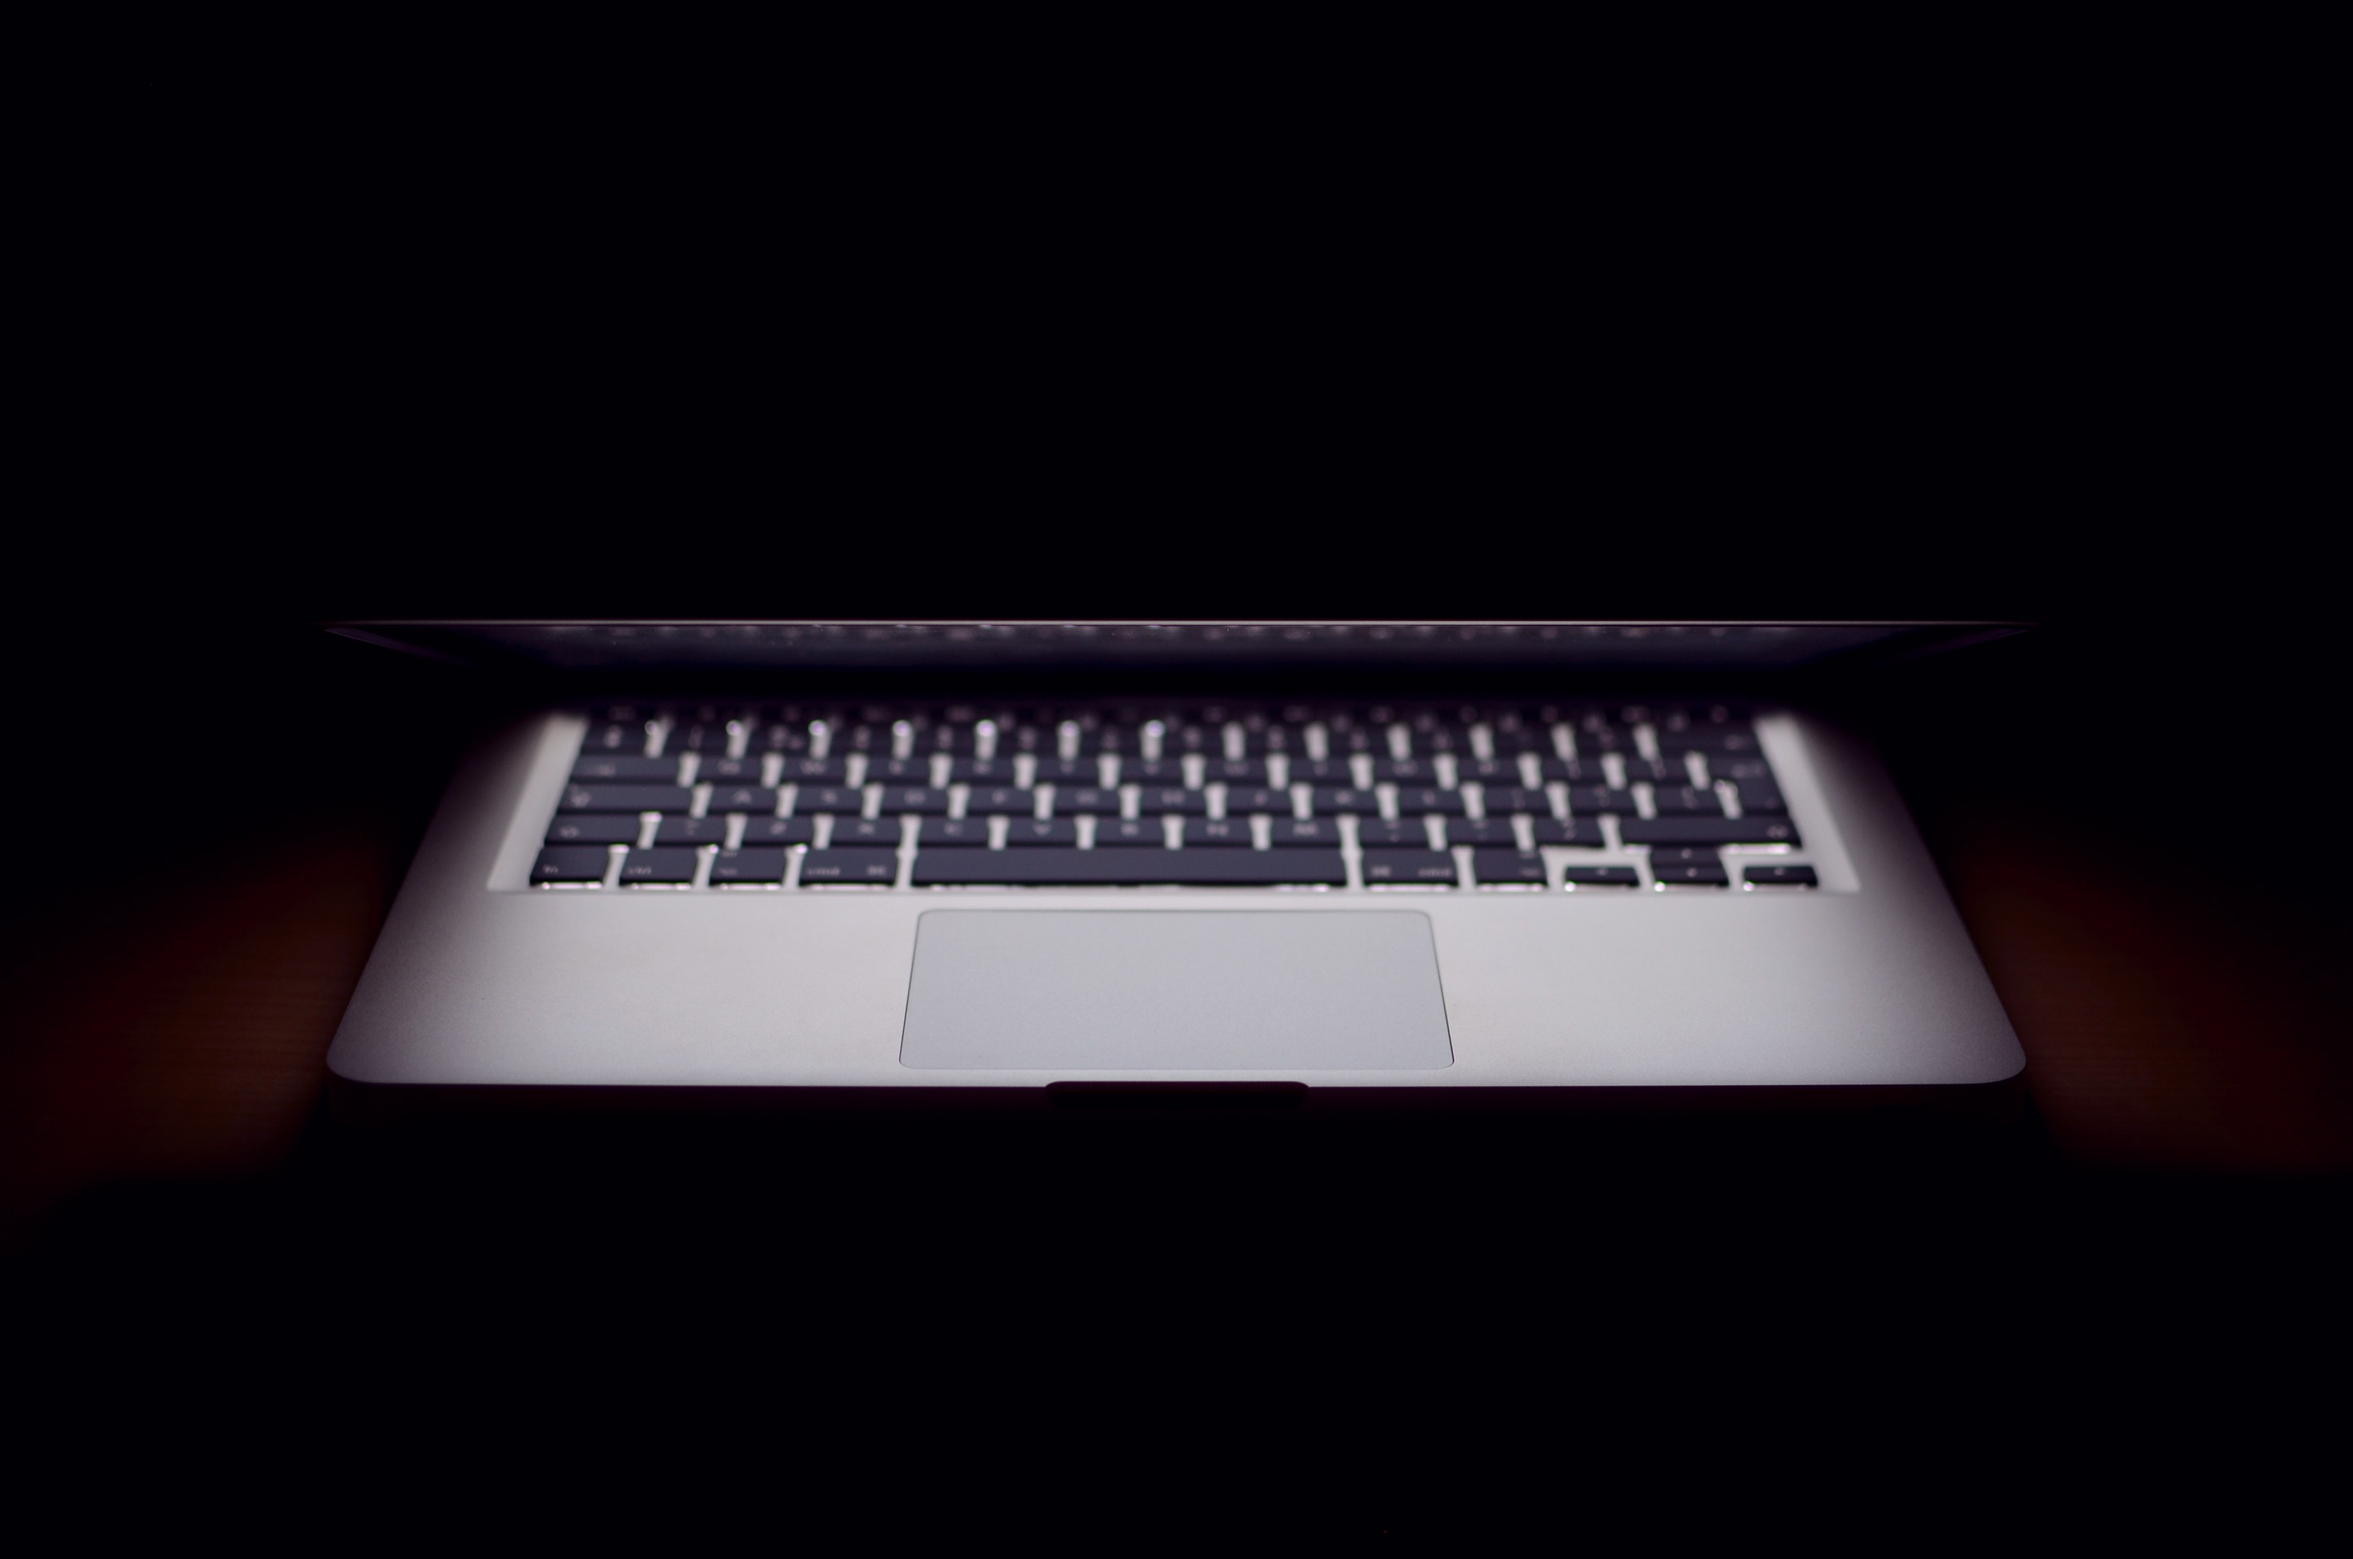
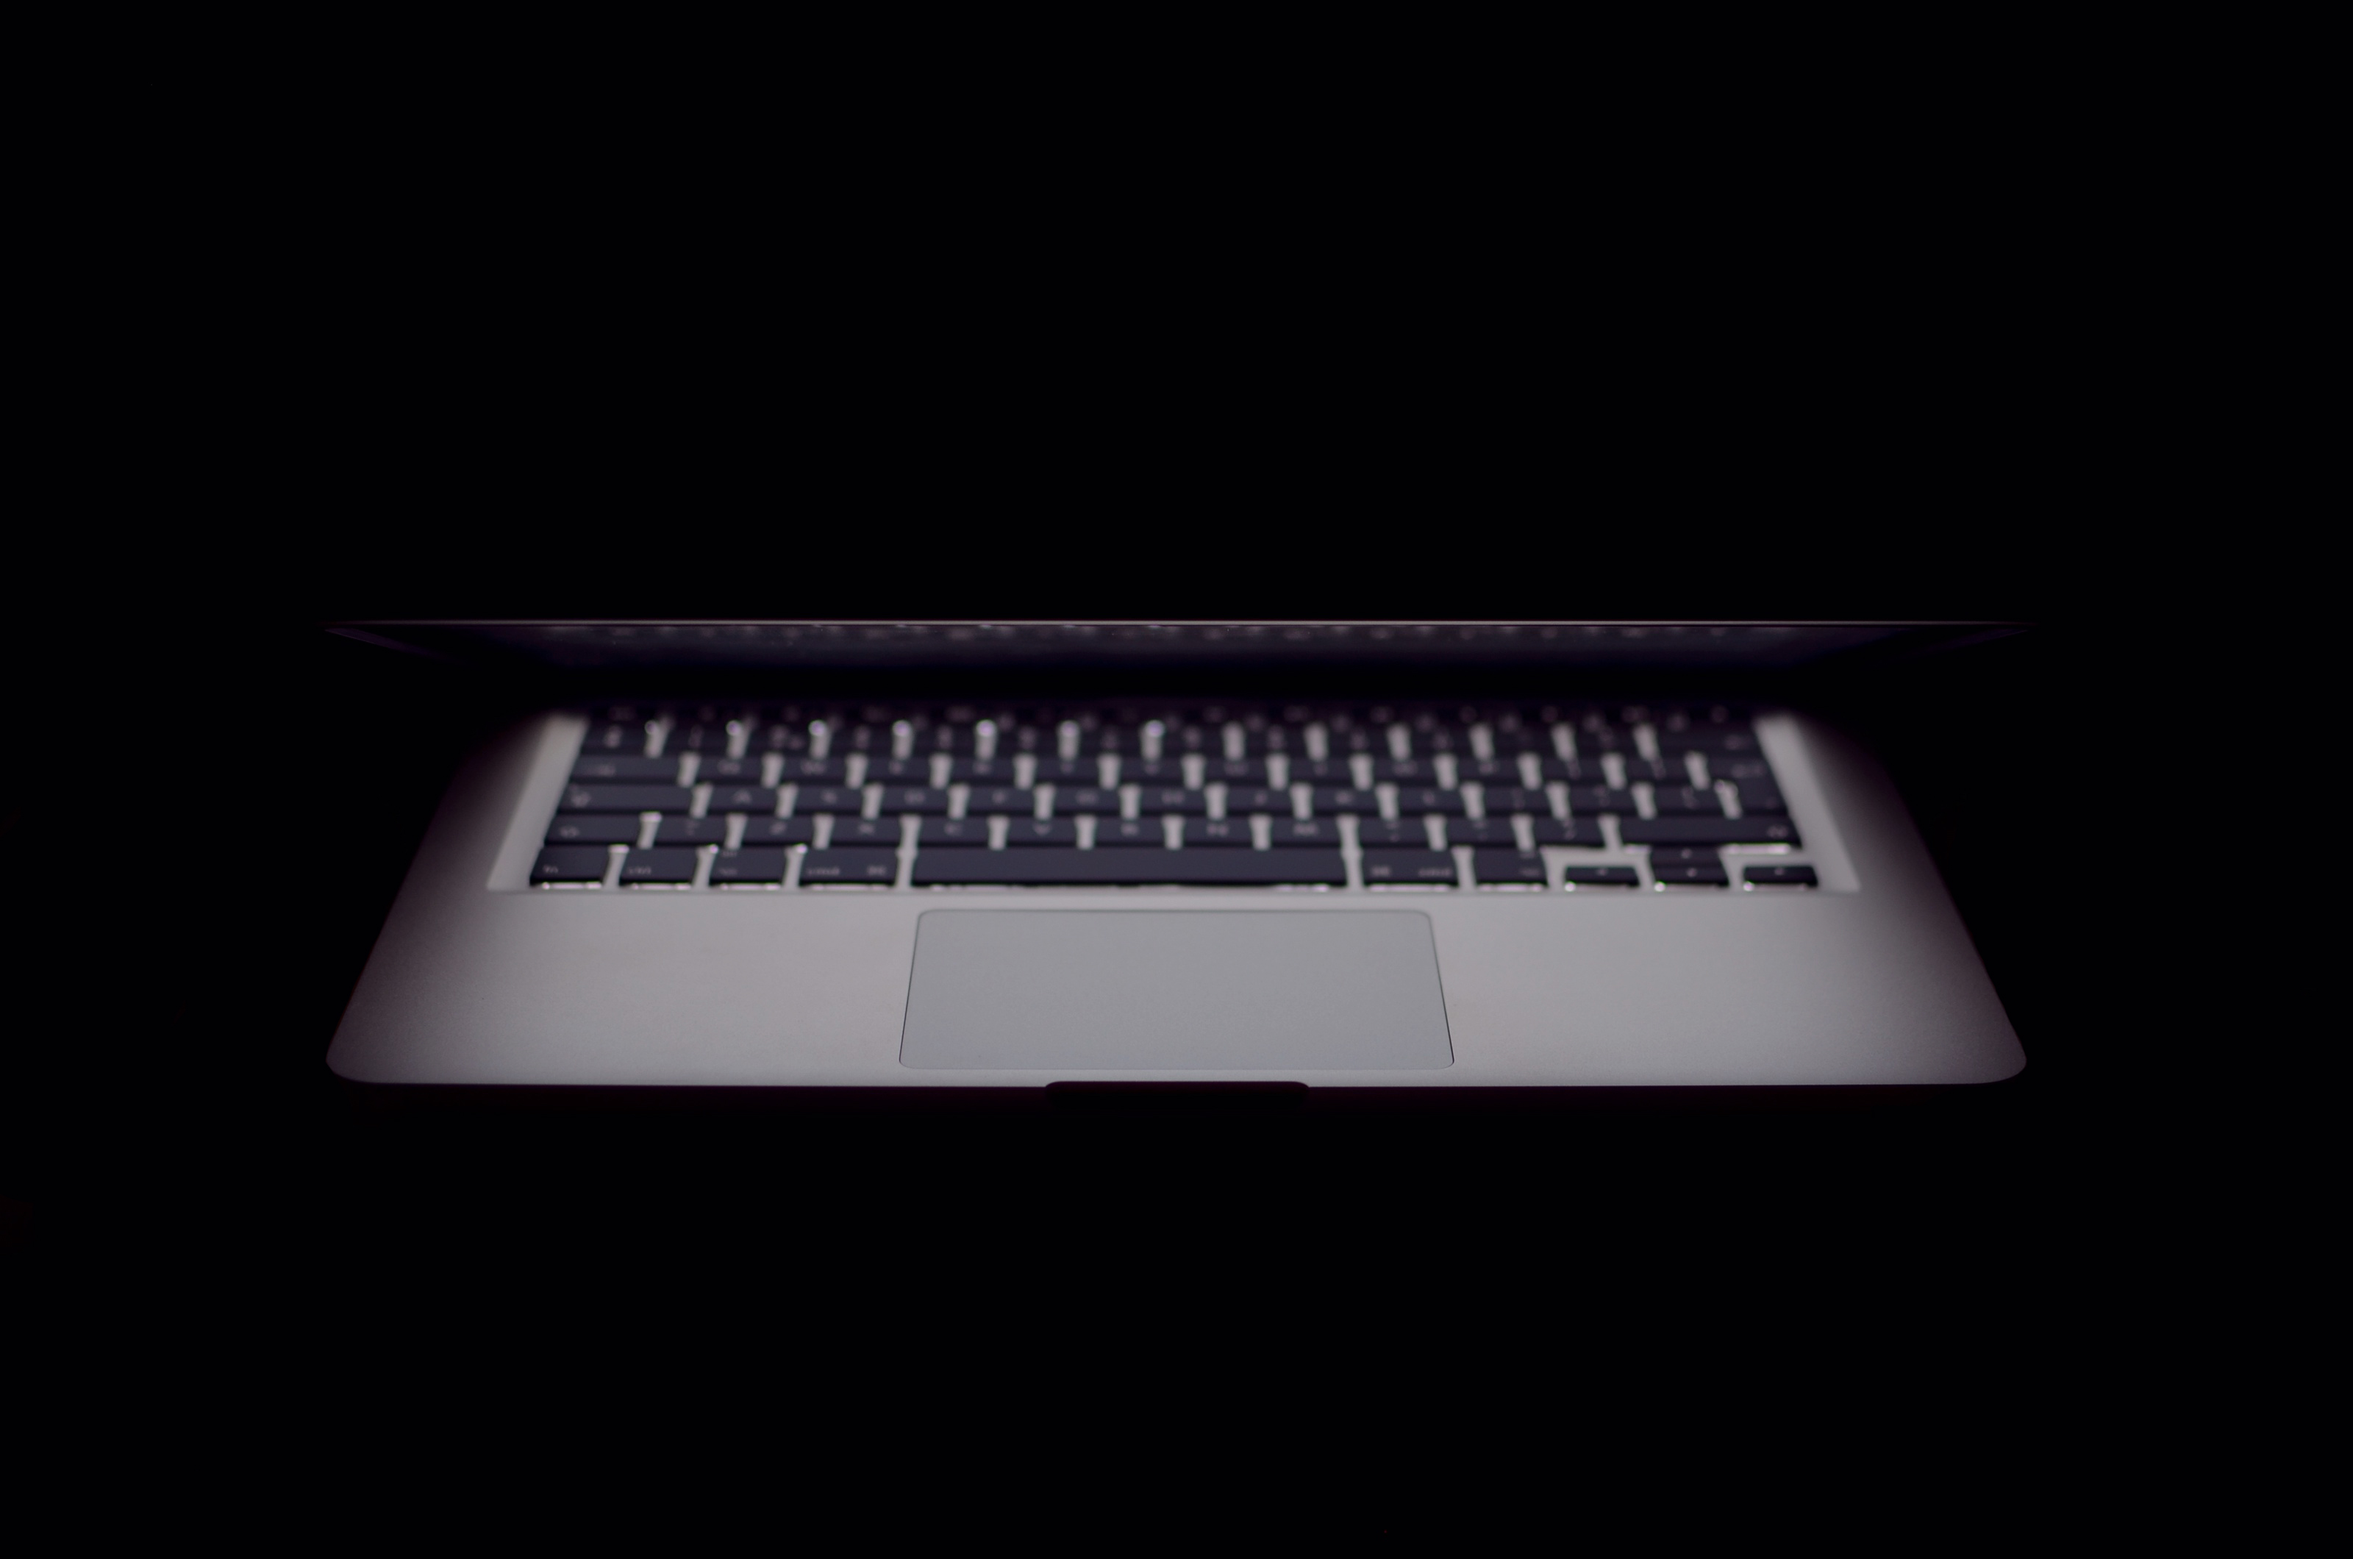
6 added header markup and styles, added parallax effect and portfolio button

Changed region(s): [[0.1875, 0.467, 0.9688, 0.7472], [0.0312, 0.5604, 0.1562, 0.7472]]

diff --git a/css/style.css b/css/style.css
@@ -408,18 +408,93 @@ a {
   text-decoration: none;
 }
 
-#bg-hero {
-  background: url("../assets/images/macbook.jpg") center;
-  background-size: cover;
+#scene {
+  background-color: #010005;
   width: 100%;
 }
 
-#fg-hero {
-  background: url("../assets/images/macbook2.jpg") center;
-  background-position: right;
-  background-size: cover;
+.parallax-bg {
+  background: url("../assets/images/macbook.jpg") no-repeat center;
+  background-size: contain;
+  width: 100%;
+  padding-bottom: 50%;
+}
+
+.parallax-fg {
+  background: url("../assets/images/macbook-blur.jpg") no-repeat center;
+  background-size: contain;
   opacity: .6;
   width: 100%;
+  padding-bottom: 50%;
+}
+
+.main-header {
+  font-size: 2vw;
+  font-family: 'Righteous', cursive;
+  font-weight: lighter;
+  color: #F8F2E2;
+  margin: 4% auto 0;
+  width: 100%;
+  z-index: 1000;
+}
+
+.main-header > * {
+  margin: 0;
+}
+
+.main-header h1 {
+  font-size: 6vw;
+}
+
+.main-header h1 span {
+  color: #3BC391;
+  font-size: 8vw;
+  text-transform: uppercase;
+}
+
+.portfolioBtn {
+  margin-top: 22vw;
+  padding: 2% 6%;
+  display: inline-block;
+  text-transform: uppercase;
+  letter-spacing: 1px;
+  position: relative;
+  transition: all 0.3s;
+  border: 3px solid #3BC391;
+  color: #3BC391;
+  overflow: hidden;
+}
+
+.portfolioBtn:after {
+  content: '';
+  position: absolute;
+  z-index: -1;
+  transition: all 0.3s;
+  width: 100%;
+  height: 0;
+  top: 50%;
+  left: 50%;
+  background: #3BC391;
+  opacity: 0;
+  -webkit-transform: translateX(-50%) translateY(-50%) rotate(45deg);
+  -ms-transform: translateX(-50%) translateY(-50%) rotate(45deg);
+  transform: translateX(-50%) translateY(-50%) rotate(45deg);
+}
+
+.portfolioBtn:hover,
+.portfolioBtn:active {
+  color: #F8F2E2;
+  border: 3px solid #F8F2E2;
+}
+
+.portfolioBtn:hover:after {
+  height: 260%;
+  opacity: 1;
+}
+
+.portfolioBtn:active:after {
+  height: 400%;
+  opacity: 1;
 }
 
 /*# sourceMappingURL=style.css.map */

diff --git a/js/app.js b/js/app.js
@@ -13,40 +13,21 @@ $(function(){
             console.log("napisz, ze dziala");
         }
 
-        function fullPage(){
-            $('#fullpage').fullpage({
-                sectionsColor: ['#F8F2E2', '#3BC391', '#EB4549', '#2F79C3', '#374047'],
-                responsiveWidth: 900,
-                slidesNavigation: true,
-                navigation: true,
-                anchors: ['firstPage', 'secondPage', 'thirdPage', 'fourthPage'],
-                menu: '#menu'
-            });
+        function parallax(){
+            var scene = document.getElementById('scene');
+            var parallax = new Parallax(scene);
         }
-
-        //function scrollPage(){
-        //    var links = $(".main-nav-btn a");
-        //
-        //    links.on("click", function(){
-        //        $("html, body").animate({                               //if links are clicked, animate (1s) html and body
-        //            scrollTop: $($(this).attr("href")).offset().top     //to the top of the clicked anchor's href
-        //        }, 700, 'swing');
-        //        console.log("smiga");
-        //    });
-        //}
 
         return {
             init: init,
-            fullPage: fullPage,
-            scrollPage: scrollPage
+            parallax: parallax
         }
 
     };
 
     var app = new Application();
     app.init();
-    app.fullPage();
-    app.scrollPage();
+    app.parallax();
 
 
 });

diff --git a/index.html b/index.html
@@ -11,15 +11,31 @@
     <link  href="css/style.css" rel="stylesheet">
     <link href="css/font-awesome.min.css" rel="stylesheet">
     <script src="js/jquery-2.1.4.js" type="text/javascript"></script>
+    <script src="js/parallax.min.js"></script>
     <script src="js/app.js" type="text/javascript"></script>
 </head>
 <body>
 
+    <!--<nav class="nav-bar">-->
+        <!--<div class="main-logo"><a></a></div>-->
+        <!--<ul class="menu">-->
+            <!--<li><a href="#">about</a></li>-->
+            <!--<li><a href="#">skills</a></li>-->
+            <!--<li><a href="#">portfolio</a></li>-->
+            <!--<li><a href="#">contact</a></li>-->
+        <!--</ul>-->
+    <!--</nav>-->
 
-<script src="js/parallax.min.js"></script>
-<script>
-    var scene = document.getElementById('scene');
-    var parallax = new Parallax(scene);
-</script>
+    <header id="scene">
+        <div class="layer parallax-bg" data-depth="0.0"></div>
+        <div class="layer main-header cl-effect-19" data-depth="0.05">
+            <h1>hi, I am <span>Marcin</span></h1>
+            <p>junior front-end developer</p>
+            <a href="#portfolio" class="portfolioBtn">portfolio</a>
+        </div>
+        <div class="layer parallax-fg" data-depth="0.2"></div>
+    </header>
+
+
 </body>
 </html>

diff --git a/css/style.scss b/css/style.scss
@@ -14,17 +14,53 @@ a {
   text-decoration: none;
 }
 
-#bg-hero {
-  background: url("../assets/images/macbook.jpg") center;
-  background-size: cover;
+
+// ====== HEADER SECTION ======
+
+
+#scene {
+  background-color: #010005;
   width: 100%;
 }
 
-#fg-hero {
-  background: url("../assets/images/macbook2.jpg") center;
-  background-position: right;
-  background-size: cover;
+.parallax-bg {
+  background: url("../assets/images/macbook.jpg") no-repeat center;
+  background-size: contain;
+  width: 100%;
+  padding-bottom: 50%;
+}
+
+.parallax-fg {
+  background: url("../assets/images/macbook-blur.jpg") no-repeat center;
+  background-size: contain;
   opacity: .6;
   width: 100%;
+  padding-bottom: 50%;
 }
 
+.main-header {
+  font-size: 2vw;
+  font-family: 'Righteous', cursive;
+  font-weight: lighter;
+  color: #F8F2E2;
+  margin: 4% auto 0;
+  width: 100%;
+  z-index: 1000;
+}
+
+.main-header > * {
+  margin: 0;
+}
+
+.main-header h1 {
+  font-size: 6vw;
+}
+
+.main-header h1 span {
+  color: #3BC391;
+  font-size: 8vw;
+  text-transform: uppercase;
+}
+
+// styles for portfolio button
+@include portfolioBtn;

diff --git a/css/_mixins.scss b/css/_mixins.scss
@@ -1,0 +1,49 @@
+
+// ====== PORTFOLIO CALL FOR ACTION BUTTON
+@mixin portfolioBtn {
+
+  .portfolioBtn {
+    margin-top: 22vw;
+    padding: 2% 6%;
+    display: inline-block;
+    text-transform: uppercase;
+    letter-spacing: 1px;
+    position: relative;
+    transition: all 0.3s;
+    border: 3px solid #3BC391;
+    color: #3BC391;
+    overflow: hidden;
+  }
+
+  .portfolioBtn:after {
+    content: '';
+    position: absolute;
+    z-index: -1;
+    transition: all 0.3s;
+    width: 100%;
+    height: 0;
+    top: 50%;
+    left: 50%;
+    background: #3BC391;
+    opacity: 0;
+    -webkit-transform: translateX(-50%) translateY(-50%) rotate(45deg);
+    -ms-transform: translateX(-50%) translateY(-50%) rotate(45deg);
+    transform: translateX(-50%) translateY(-50%) rotate(45deg);
+  }
+
+  .portfolioBtn:hover,
+  .portfolioBtn:active {
+    color: #F8F2E2;
+    border: 3px solid #F8F2E2;
+  }
+
+  .portfolioBtn:hover:after {
+    height: 260%;
+    opacity: 1;
+  }
+
+  .portfolioBtn:active:after {
+    height: 400%;
+    opacity: 1;
+  }
+}
